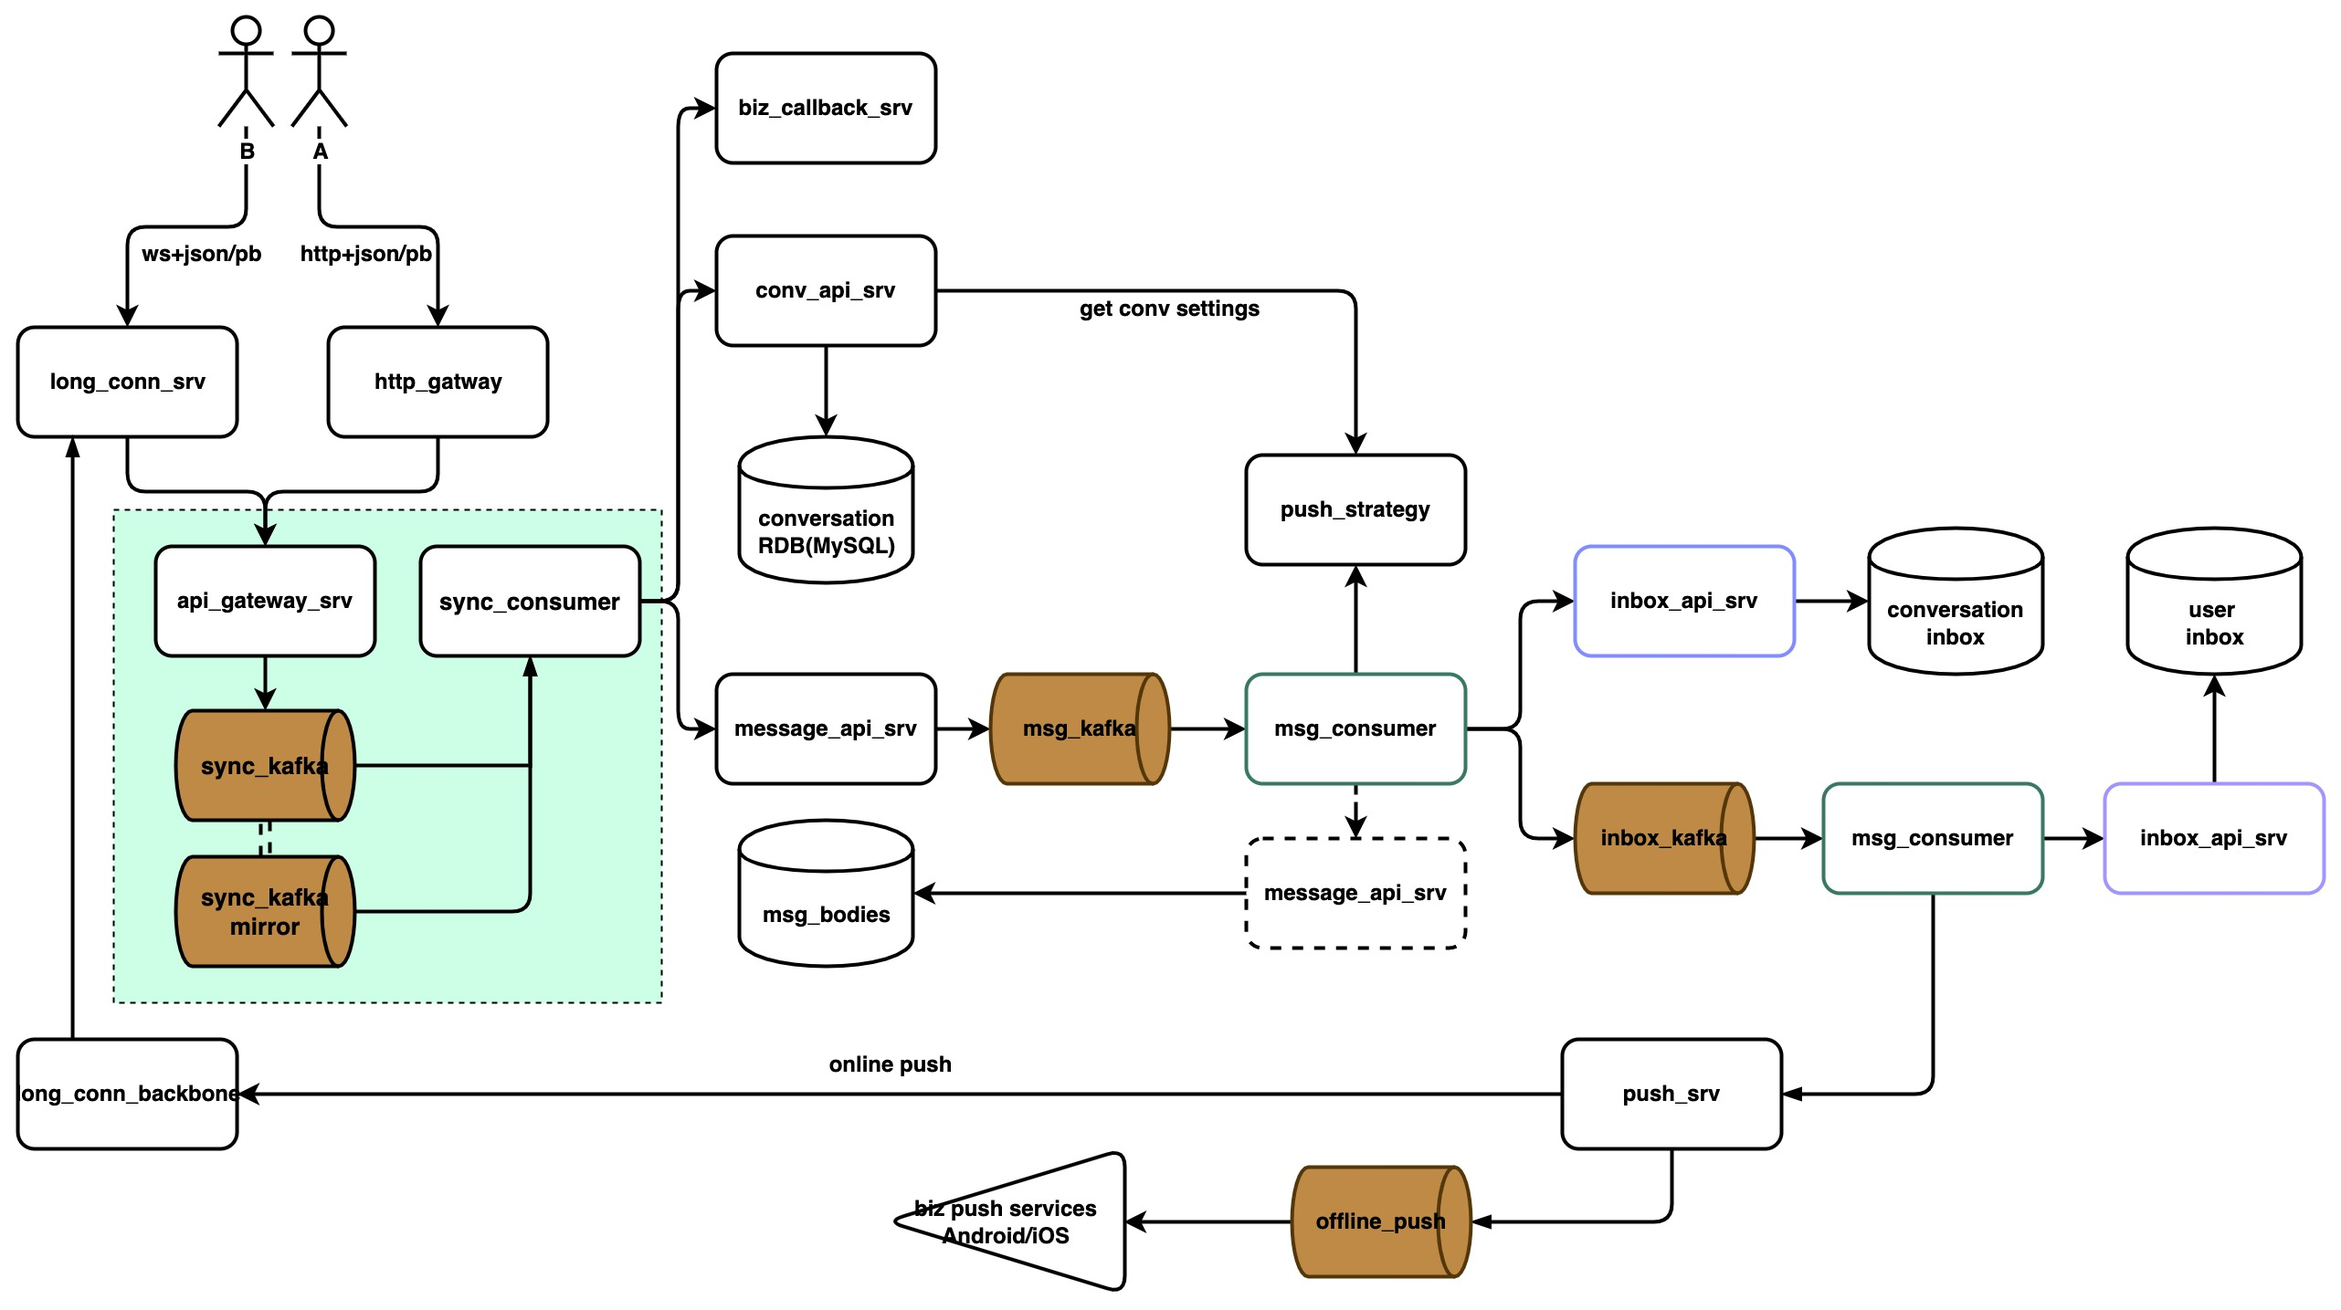
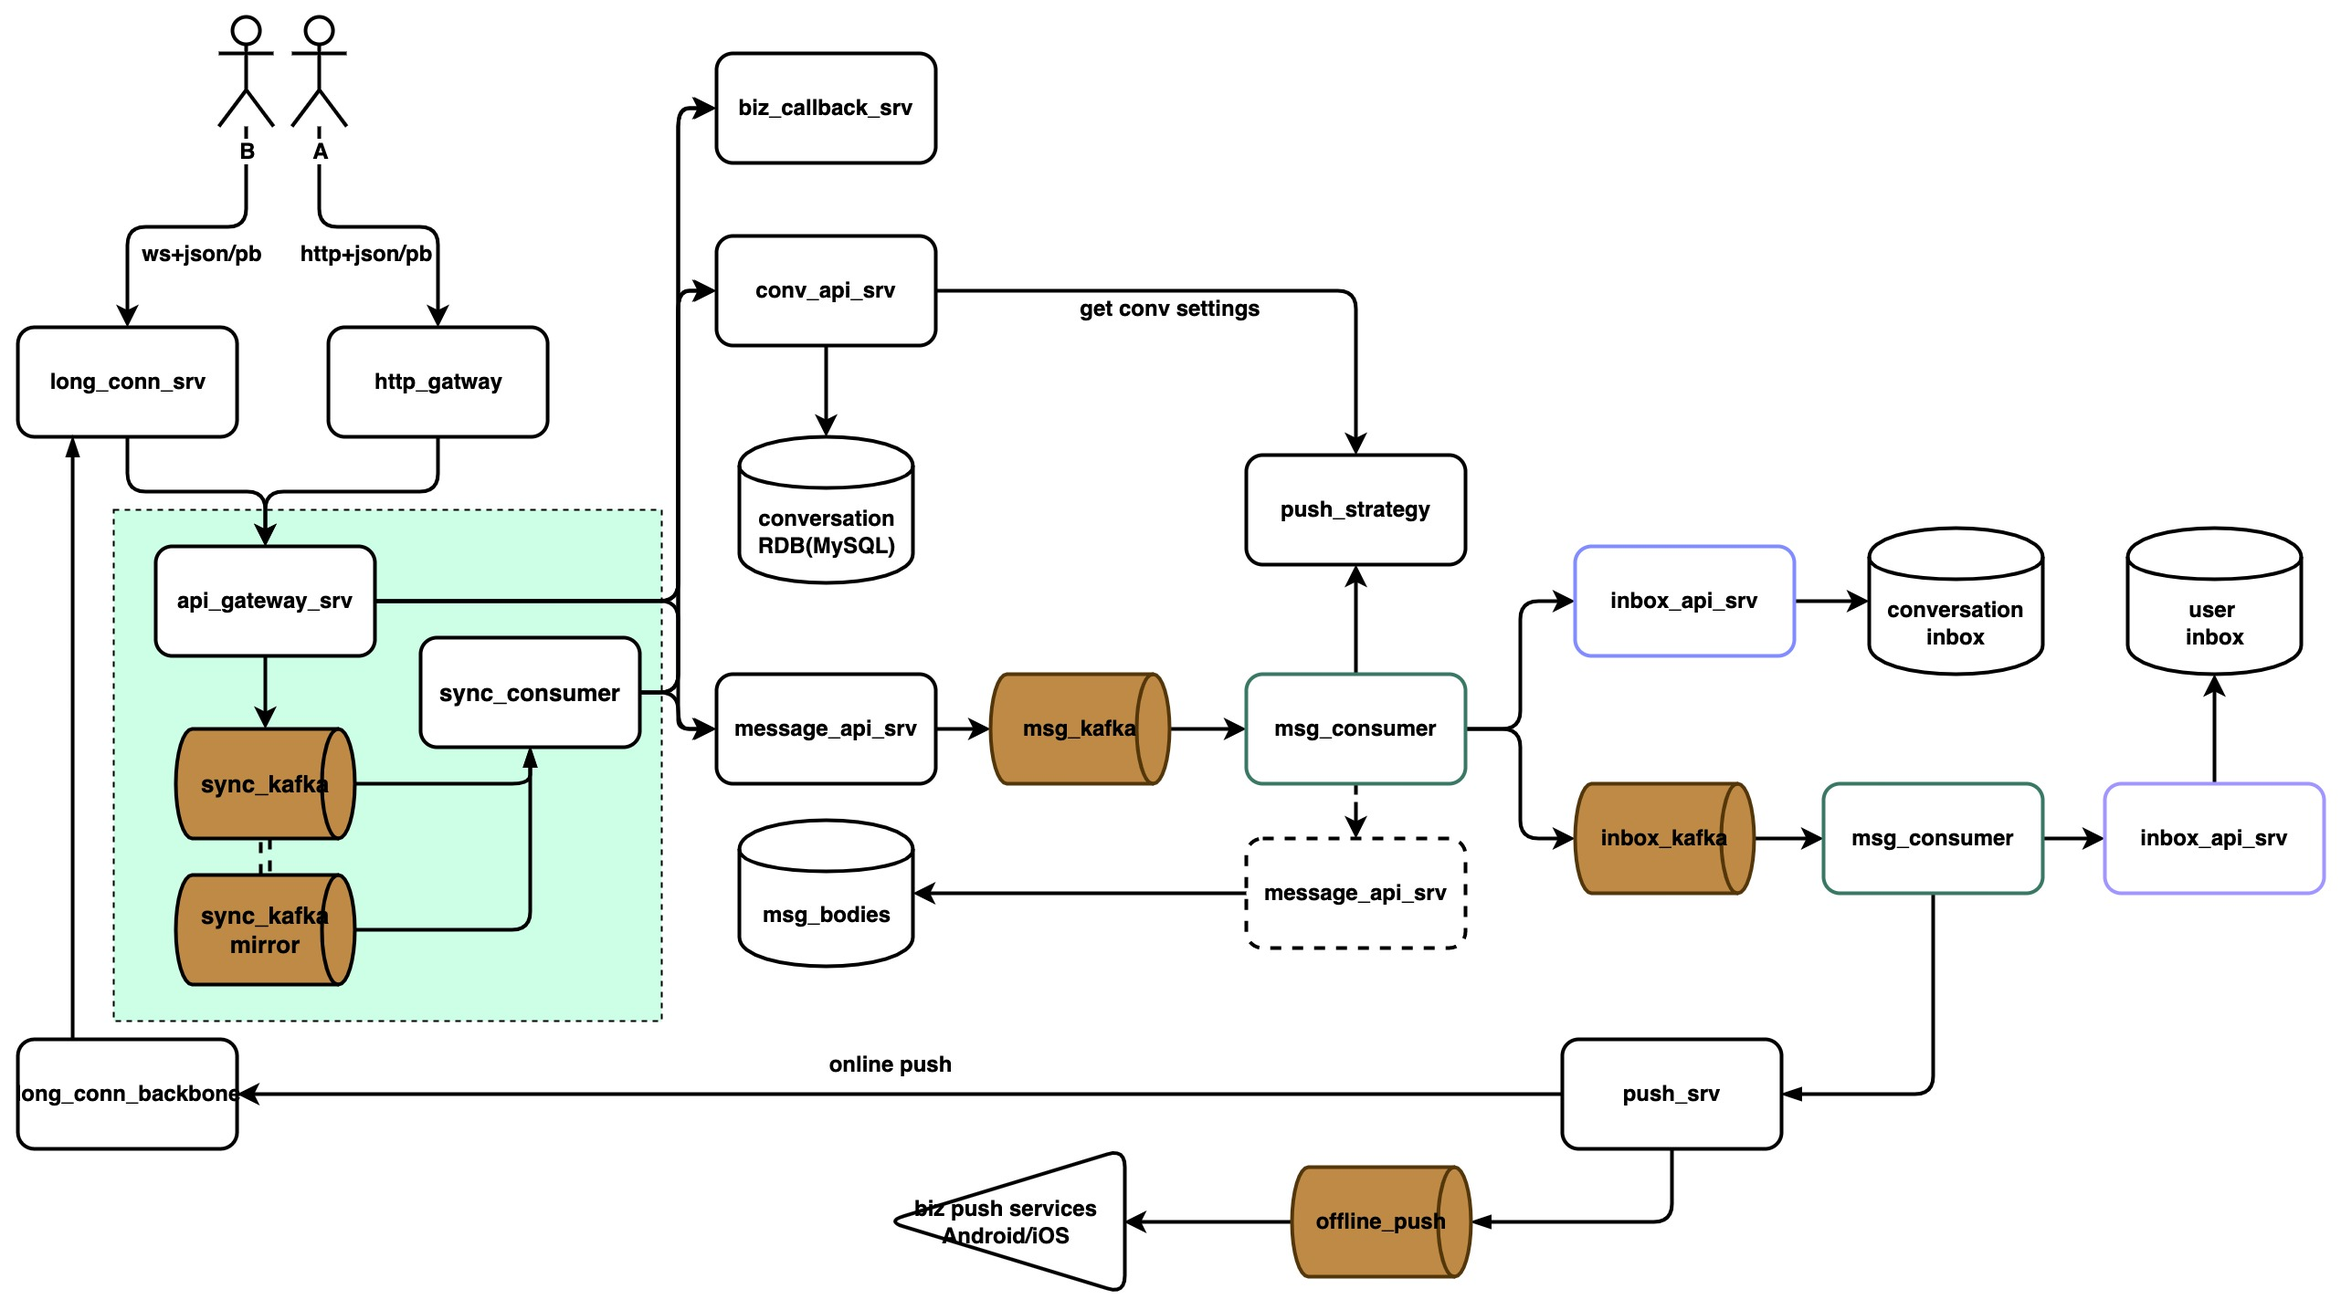
IM archi

Changed region(s): [[0.0312, 0.3986, 0.2809, 0.7972]]

diff --git a/content/posts/study/im_architecture/index.md b/content/posts/study/im_architecture/index.md
@@ -1,10 +1,10 @@
 ---
 author: "LZZ"
 title: "How Does Instant Messaging Work? (A Holistic IM Backend Intro)"
-date: "2022-01-15"
+date: "2022-01-27"
 tags: ["学习", "IM", "Architecture"]
 categories: ["笔记"]
-summary: "This essay takes me one moth to finish writing, drawing figures. I will start from the view of a PM to define what user's need for a simple instant messaging service as well as the perspective of a SWE on how to implement these features (backend) in a robust and reliable way."
+summary: "This essay takes me one month to finish writing, drawing figures. I will start from the view of a PM to define what user's need for a simple instant messaging service as well as the perspective of an SWE to design how to implement these features (backend) in a robust and reliable way."
 draft: false
 ShowToc: true
 TocOpen: false
@@ -13,23 +13,23 @@ cover:
     relative: true
 
 ---
-This essay I will start from a view of PM to define what user's need for a simple instant messaging service as well as a perspective of SWE on how to implement these features (backend) in a robust and reliable way. It will take somt time to read and understand however it is followed by figures step by step. Do leave comments if u have queires.
+This essay takes me one month to finish writing, drawing figures. I will start from a view of PM to define what user's need for a simple instant messaging service as well as the perspective of an SWE to design how to implement these features (backend) in a robust and reliable way. It will take some time to read and understand however it is followed by figures step by step. Do leave comments if u have any queires.
 
 ## What is "IM"  
 
 ### Basic "IM" introduction  
 
-![Example image](fig17.png#center)  
+![IM ScreenShot](fig17.png#center)  
 
 IM means instant messaging, many APPs support Instant messaging function. Tipical IM Applications include Messenger, WhatsApp, Telegram and many more other small . The most simple scenario is that User A would love to send message to User B.  
 
 In this simple case, what we can think about fulfilling the function is that:  
 
-![Example image](fig1.jpeg#center)  
+![Draft Design](fig1.jpeg#center)  
 
 In this case, everyone would store the message **on their phone** and send directly to other people's phone. However, this is a serverless solution and it is impossible for huge Apps like TikTok. So what we can think of the usecases:  
 
-![Example image](fig2.jpeg#center)  
+![Draft Design](fig2.jpeg#center)  
 
 ### Simple One-On-One Conversation Scenerio  
 
@@ -53,7 +53,7 @@ After this, we can push further on the messaging system. For example, we dont wa
 
 After talking about the connection issue. We can think about storage issues. What if A has a lot of conversation with many other people: C, D, E...  
 
-![Example image](fig3.jpeg#center)  
+![Draft Design](fig3.jpeg#center)  
 
 How do we tell which msg belongs to conversation between which two users? How do we know which message to fetch if A opens the chat with different people like C, D ,E. Therefore, we need more information to be stored. The conversation information (chat info)-- the message sent to the server belongs to the conversation from which two people.  
 
@@ -74,11 +74,11 @@ Inside a group chat, we could add people, remove people. And therefore, the conv
 > 2. Mesage Linking to Conversation
 > 3. **Add people/Remove People**  
 
-![Example image](fig4.jpeg#center)  
+![Draft Design](fig4.jpeg#center)  
 
 Within the group chat, we could update the group chat settings, such as group name, group photo, group announcement, group member alias, group member role: Who is the admin? Who is owner? Do we allow team member to add new members? Need owner's verification to add new member? What if I have personal preference for the conversation such as I would love to mute this group chat ~ Therefore, we need:  
 
-![Example image](fig5.jpeg#center)  
+![Draft Design](fig5.jpeg#center)  
 
 We may need up to 3 tables to store the related information about the conversation. One table storing the latest conversation member UserID; One Storing the personal configuration to the chat/group chat; And the common chat configuration for all people inside the conversation  
 
@@ -128,7 +128,7 @@ So we need to have bullet point 5 added:
 
 To fix the previous two problems, we can have an inbox design that storing all personal messages seperately! **Use some kind of message duplication to improve reading speed.**  
 
-![Example image](fig6.jpeg#center)  
+![Draft Design](fig6.jpeg#center)  
 
 Now we have a general IM design in our mind. Let's take a look at what im_cloud actually looks like! Remember the features we need to implement:  
 
@@ -150,7 +150,7 @@ Now we have a general IM design in our mind. Let's take a look at what im_cloud 
 
 ### Basic Message Sending
 
-![Example image](fig7.jpeg#center)  
+![Simple Design With DB](fig7.jpeg#center)  
 
 - Provide API `sendMessage`/ `loadMessage`
 - Provide API `recallMessage`/`deleteMessage`
@@ -161,7 +161,7 @@ Now we have a general IM design in our mind. Let's take a look at what im_cloud 
 
 Now we have a `msg_id` to pass around our microservices instead of a huge message body. A message body may be a picture, a voice message or a lopng text. A msg_id is more suitable to represent a single message and pass around and it saves space. After we have a simple messaging service, we need a conversation management service.
 
-![Example image](fig8.jpeg#center)  
+![Simple Design With Conversation](fig8.jpeg#center)  
 
 - Provide API `create_conversation`/ `delete_conversation`
 - Provide API `add_member`/`delete_member`
@@ -174,30 +174,30 @@ Now we have a `msg_id` to pass around our microservices instead of a huge messag
 
 As mentioned above, delivering messages to everyone according to which conversation is involved and what conversation setting they are using can be troublesome. Its hard to do query from msg table and conversatin table. So we choose to **use more space to save more time: We allocate a thing called inbox to arrange all messages sequentially.**
 
-Lets recall our draft design: ![Example image](fig6.jpeg#center)  
+Lets recall our draft design: ![Draft Design](fig6.jpeg#center)  
 So a inbox is like email inbox, or a physical mail box, we stack new messges to the inbox so msgs are arranged in a timely order. Theare are two modes of inbox design that are commonly used:
 
 - **Push Mode (写扩散)**
 - **Pull Mode (读扩散)**  
 
-And they have their own advantages and disadvantanges and we take a look.
+And they have their own advantages and disadvantanges so we take a look.
 
 > Pull Mode (读扩散)
 > - Every conversation would have an inbox and and when A is checking his inbox. A read opeartion would iterate all those conversaiton inbox that is related to A and pull the messages he hasnt read.  
 > - Pros: Every message only requires one write to the inbox in addition to the actual message storage. Every Inbox contains the messages that is solely for each conversation and its easy to fetch history messages of one chat.
 > - Cons: Difficult/Heavy to Read all messages of that single person
-> ![Example image](fig9.png#center)  
+> ![PUll Mode](fig9.png#center)  
 > In the figure, the inbox is a Zset (ordered set, choose ur db wisly) and msgs are appended in a time order
 > ---
 > Push Mode (写扩散)
 > - Push Mode pushes all messages that person involves into his Inbox Set, order by message timeline. This operation is done when new message is produced. One only need to fetch his messages in a timeline set from his inbox.  
 > - Pros: Fast reading of one's inbox list. Easy for cold start/fresh reinstall online data fetching.
 > - Cons: Writing of new messages to private inbox can be heavy, especially for group chat. e.g. sending a msg to a group with 500 members would result 500 updates event of the user inbox. Also its hard to retrieve messages from one conversation and need to do filtering query.
-> ![Example image](fig10.png#center)  
+> ![Push Mode](fig10.png#center)  
 
 To make a robust system and optimise through put. We choose to inplement both inbox and take both advantages! See the updated design:
 
-![Example image](fig11.jpeg#center)  
+![Message Inbox Design](fig11.jpeg#center)  
 
 For all messgae sending event, we feed it into a message_queue and prepare a comsumer group service lets say `message_consumer`.  
 
@@ -208,7 +208,7 @@ For all messgae sending event, we feed it into a message_queue and prepare a com
 
 > Qn: What are some of the design problems in this structure or to say how to improve this architecture?
 
-![Example image](fig12.jpeg#center)  
+![Inbox Structure](fig12.jpeg#center)  
 
 We can see that the `message_api_srv` does not save the msg into db. However, the comsumer would RPC call `messgae_api_srv` again to save the message to DB. This is due to single reponsiblity priciple and make `send_msg` api a public api where we build another api called `storage_msg_body` for internal service RPC call.
 
@@ -232,21 +232,21 @@ Long Connection (Web Socket) is a commonly for client side to synchronise data w
 - Server push new messages to the client when the client's inbox in updated.  
 - Long conenction is usually maintained by heartbeat schema
 
-![Example image](fig13.png#center)  
+![Message Flow](fig13.png#center)  
 
 However, there are cases that long connection is not stable and disconnects. The message sending process can then be replaced by HTTP request. The msg pushing request can only be replace by:
 
 Push Notification, which is an unreliable push service introduced by Phone Companys, such as APNS for iOS/iPhone, FCM for Android in regions outside of China and other customised push service MiPush or HuaweiPush in China.  
 
 Therefore we have this structure:  
-![Example image](fig15.jpeg#center)  
+![API Gateway Structure](fig15.jpeg#center)  
  
 - `http_gateway`External HTTP request entrypoint /short connection
 - `long_conn_srv`Long Connection through Web-Socket connection between the mobile client and the
 - `aip_gateway_srv` rpc apigateway for all routes
 - `biz_callback_srv` Customised for customers, when any API endpoints in the api.gateway is called by APP users. It could trigger a customised callback function that such API is called.  
 
-![Example image](fig16.jpeg#center)  
+![Message Receiving](fig16.jpeg#center)  
 
 - `push_srv` Verify whether we should push the notification to the user or not: depending on the user conversation setting, user setting, appid setting, as well as the long connection status!
 - IM would try long connection Frontier first, then use offline push.
@@ -258,7 +258,7 @@ However, since I have mentioned offline push notification is not reliable? Why?
 
 Therefore, when the client receives the messages from push notification, and when user clicks it app should do a HTTP pull request from the server to retrieve the latest msg before just using the push message as the latest one and display it to server.
 
-![Example image](fig14.png#center)  
+![Message Receiveing](fig14.png#center)  
 
 This is because the message should be arranged in timely order and a missing push notification would result in the later messages be mistaken and leads to message hole isssues.
 
@@ -268,7 +268,7 @@ It is curcial that the messages sent out by sender are will stored by receiver i
 
 Also think of a situation in you app, the app knows which messages you havent read and mark them as red dots beside every conversation. This is because the app remembers the latest conversation index you have read for every conversation you have.
 
-![Example image](fig18.jpeg#center)
+![Inbox Design](fig18.jpeg#center)
 
 - Firstly we design an index system for every inbox we have and every message will be given not only an `msg_id` by an `conv_index` and `user_index` which represents the position of every msg in the inbox
 - Also we create a `read_index` for every conversation and every covnersatino member and it marks the latest read position of the person.
@@ -279,10 +279,58 @@ Also think of a situation in you app, the app knows which messages you havent re
 
 Meanwhile the `msg_api_srv` should support a new api called `pull_new_msg` for client to actively pull for new msgs if the long connectino is not stable. The newly updated architecture is shown below with the read index database established
 
-![Example image](fig19.jpeg#center)
+![Conversation Database](fig19.jpeg#center)
 
-## Globalisation and Multi Regional DataCenter 
+## Globalisation and Multi Regional DataCenter  
 
-![Example image](fig20.jpeg#center)
+Since our users are located around the world, and our data is stored in one region. This means if our data center is lcoated in Singapore. Two Amarican would have great latency to chate with each other. Also the cost of overseas data transfer is expensive. If we are to put the Datacenter at the US, Indian users would suffer using our services. Also, in case of one data center failure (should not happen) user can also switch to another data center for emergency use.
 
-![Example image](fig21.jpeg#center)
+We need to design a multi-data center architecture to fulfill these requirements. We adjust the current structure to feed most of events in API gateway to a message queue called `sync_kafka` and use a `sync_consumer` to consume it. The best part of this is that this queue is mirrorred to other datacenter and consumed by the `sync_consumer` in other data center. Demonstrated in below figure
+
+![Data Center Synchronisation Structure](fig20.jpeg#center)  
+
+In this design, the `sync_consumer` will consume from all mirror topics that comes from other datacenter as well as the based topci that is from the same datacenter. However all data is discarded as we dont need these enents in same datacenter. This is because `api_gateway_srv` will handle these in direct RPC call. Also not all actions initiated by user will be synchronised. Only those that will edit the state of the server will be feed to the kakfa, for instance, `send_message` action will be synchronised as `fetch_message` will not be synced. 
+
+![Multi DataCenter](fig21.jpeg#center)  
+
+In this way, all data are replicated and stored in multi data center architecture and we empower users to only retrieve chat data from his own datacenter(depends on his account registration location).  
+
+## Recent Converstaion Order
+
+Imagine a case where you app just reinstalled on you phone and you open the inbox the first time. We would love to load your inbox as fast as possible. However, you have been away for a while and latest 1000 messages are all from a single group chat. If we load the most recent messages for you, you would only see one chat in your inbox. Therefore, its necessary to maintain a conversation rank order list from the server side marking the most recent chat that involves you.  
+
+![Conversation Rank Structure](fig22.jpeg#center)  
+
+## Summary  
+
+Remember this?  
+
+> 📍 **Feature (Messaging):**  
+>
+> 1. Message Storage  
+> 2. Push Notification (APNS + FCM)  
+> 3. Long Connection Notification/Online Status Detection  
+>
+> 📍 **Feature (Conversation):**
+>
+> 1. Conversation Creation/Deletion
+> 2. Mesage Linking to Conversation
+> 3. Add people/Remove People  
+> 4. Chat Management(Chat Bot, Chat File Space, Chat People Managing)
+> 5. Ordered Chat List with **fast fetching of all peronsal history messages**  
+
+We have now implemented all features in this list and can tell the PM: Hey I have got all you want!!!  
+
+## Left Over Issues
+
+However there are a lot of systematic issue in this huge architecture.
+
+Which consitency level do we provide and how do we achieve that?
+How do we maintain high availability of our service?
+Do we provide partition tolerance? How to avoid key components of the system to fail or lag?
+
+I am still learning on these issues and will write another essay regarding these issues! Chill~
+
+## Acknowledgement
+
+My Senior Rance Ren on providing insights and [如何设计一个亿级消息量的 IM 系统-技术圈](https://jishuin.proginn.com/p/763bfbd59be4)
